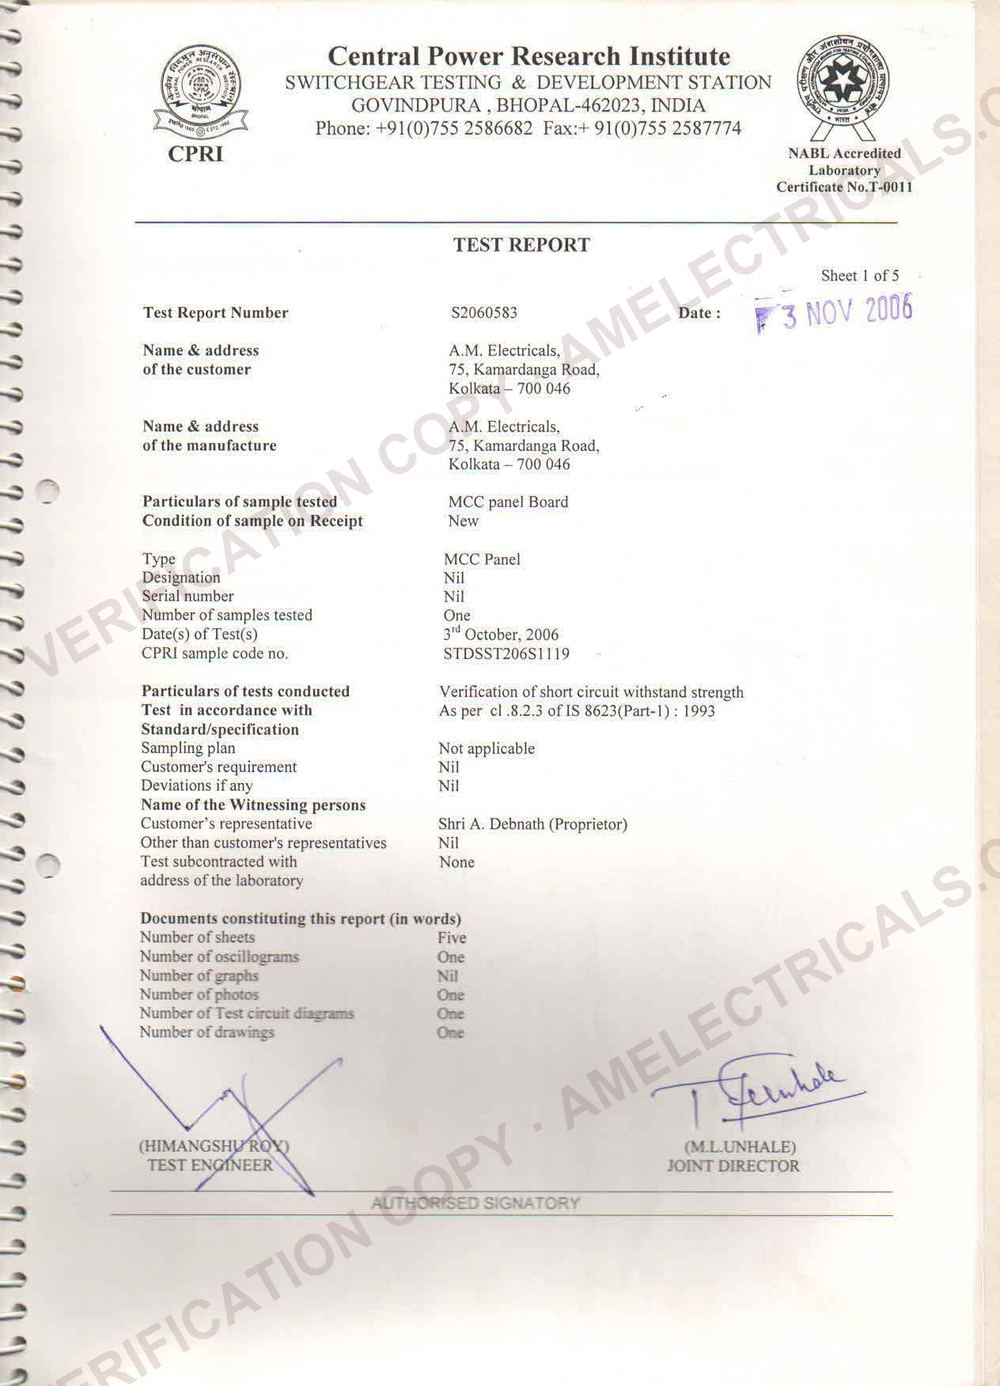
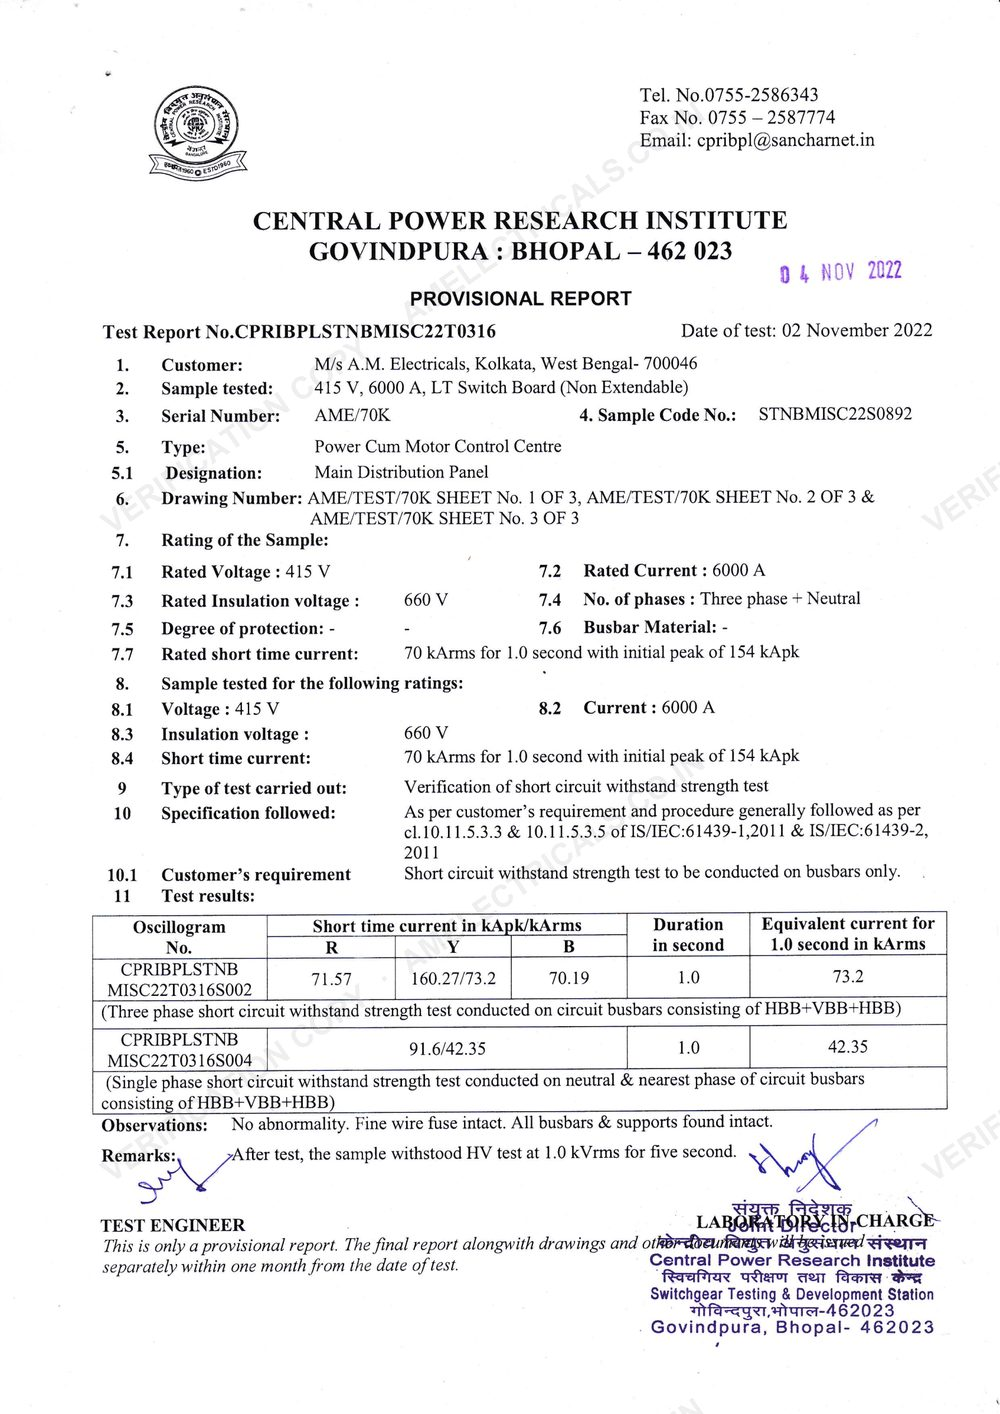
feat: industry chips link to matching category, rename Fire Alarm to Fire Pump Control, corporate hero copy, updated CPRI cert

diff --git a/web/src/data/industryLinks.ts b/web/src/data/industryLinks.ts
@@ -1,0 +1,39 @@
+// Maps the flat industry tags used on panels.json to the matching category
+// card id on /industries/ (web/src/pages/industries/index.astro).
+export const industryLinks: Record<string, string> = {
+  'Jute and textile mills': 'custom-process-plants',
+  'Cold storage': 'food-beverage-processing',
+  'Manufacturing': 'cement-steel-material-handling',
+  'Hospitals': 'commercial-real-estate-hospitality',
+  'Commercial buildings': 'commercial-real-estate-hospitality',
+  'Data centres': 'data-centres-telecom',
+  'Cement': 'cement-steel-material-handling',
+  'Steel and foundry': 'cement-steel-material-handling',
+  'Water treatment': 'water-effluent-sewage-treatment',
+  'Chemical and pharma': 'chemical-petrochemical-pharma',
+  'Steel': 'cement-steel-material-handling',
+  'Utilities': 'utilities-residential-small-industry',
+  'Hotels and hospitality': 'commercial-real-estate-hospitality',
+  'Malls and commercial': 'commercial-real-estate-hospitality',
+  'Telecom': 'data-centres-telecom',
+  'Food and beverage': 'food-beverage-processing',
+  'Pharma': 'chemical-petrochemical-pharma',
+  'Chemical': 'chemical-petrochemical-pharma',
+  'Material handling': 'cement-steel-material-handling',
+  'Hotels': 'commercial-real-estate-hospitality',
+  'Malls': 'commercial-real-estate-hospitality',
+  'Residential': 'utilities-residential-small-industry',
+  'Small industry': 'utilities-residential-small-industry',
+  'Chemical and petrochemical': 'chemical-petrochemical-pharma',
+  'Plastic': 'chemical-petrochemical-pharma',
+  'Oil refineries': 'custom-process-plants',
+  'Warehousing': 'cement-steel-material-handling',
+  'Retail': 'commercial-real-estate-hospitality',
+  'Municipal water': 'water-effluent-sewage-treatment',
+  'Industrial effluent': 'water-effluent-sewage-treatment',
+  'Food processing': 'food-beverage-processing',
+  'Cement (ash handling)': 'cement-steel-material-handling',
+  'Boiler and steam': 'custom-process-plants',
+  'Furnace and burner': 'custom-process-plants',
+  'Custom process': 'custom-process-plants',
+};
